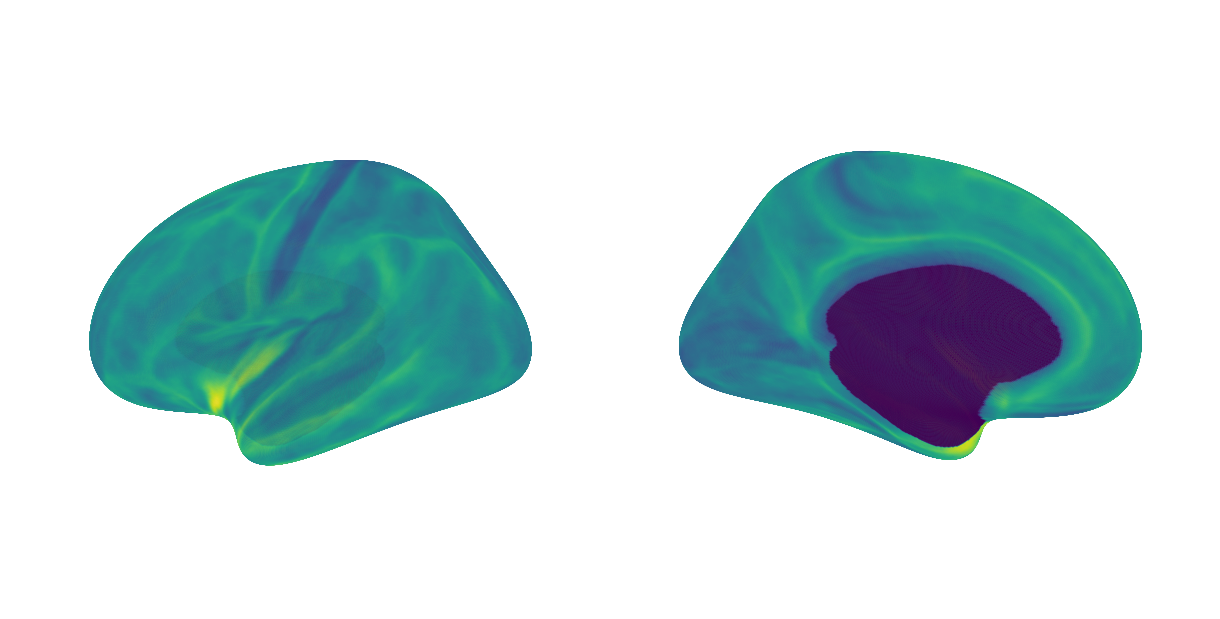
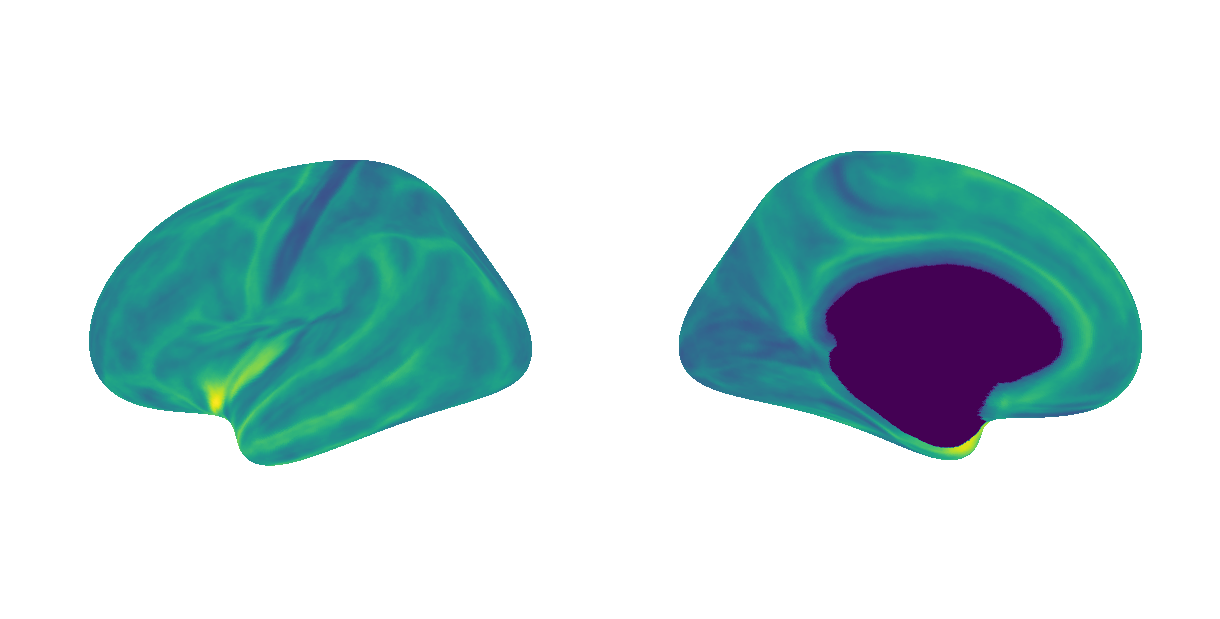
opacity

diff --git a/matplotlib_surface_plotting.py b/matplotlib_surface_plotting.py
@@ -68,7 +68,7 @@ def plot_surf(vertices, faces,overlay,rotate=270, cmap='viridis', filename='plot
         T, s_C = T[I,:], C[I,:]
         ax = fig.add_subplot(1,len(rotate),i+1, xlim=[-1,+1], ylim=[-1,+1],aspect=1, frameon=False,
          xticks=[], yticks=[])
-        collection = PolyCollection(T, closed=True, linewidth=0.1, facecolor=s_C, edgecolor=s_C)
+        collection = PolyCollection(T, closed=True, linewidth=0,antialiased=False, facecolor=s_C, edgecolor=s_C)
         collection.set_alpha(1)
         ax.add_collection(collection)
         plt.subplots_adjust(left =0 , right =1, top=1, bottom=0,wspace=0, hspace=0)

diff --git a/script_matplotlib.py b/script_matplotlib.py
@@ -1,7 +1,6 @@
 from matplotlib_surface_plotting import plot_surf
 import nibabel as nb
 import numpy as np
-
 vertices, faces=nb.freesurfer.io.read_geometry('lh.inflated')
 overlay = nb.freesurfer.io.read_morph_data('lh.thickness')
 
